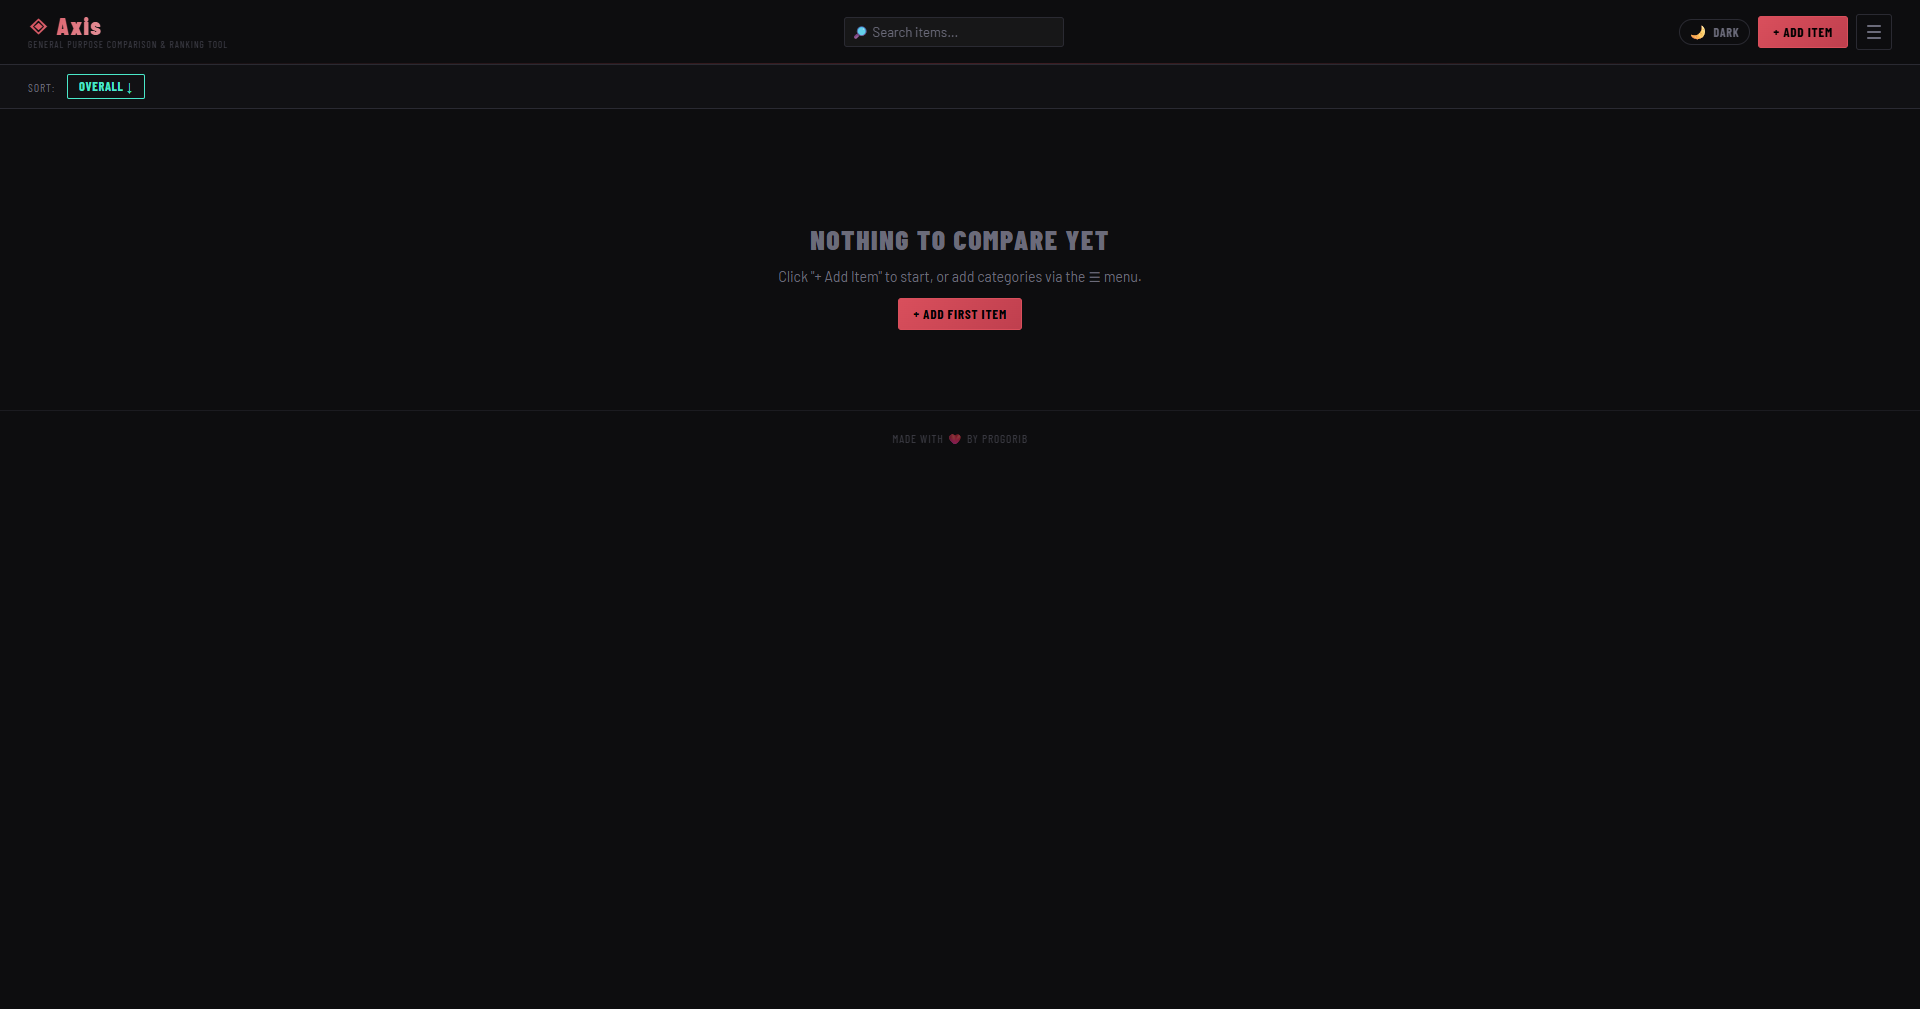
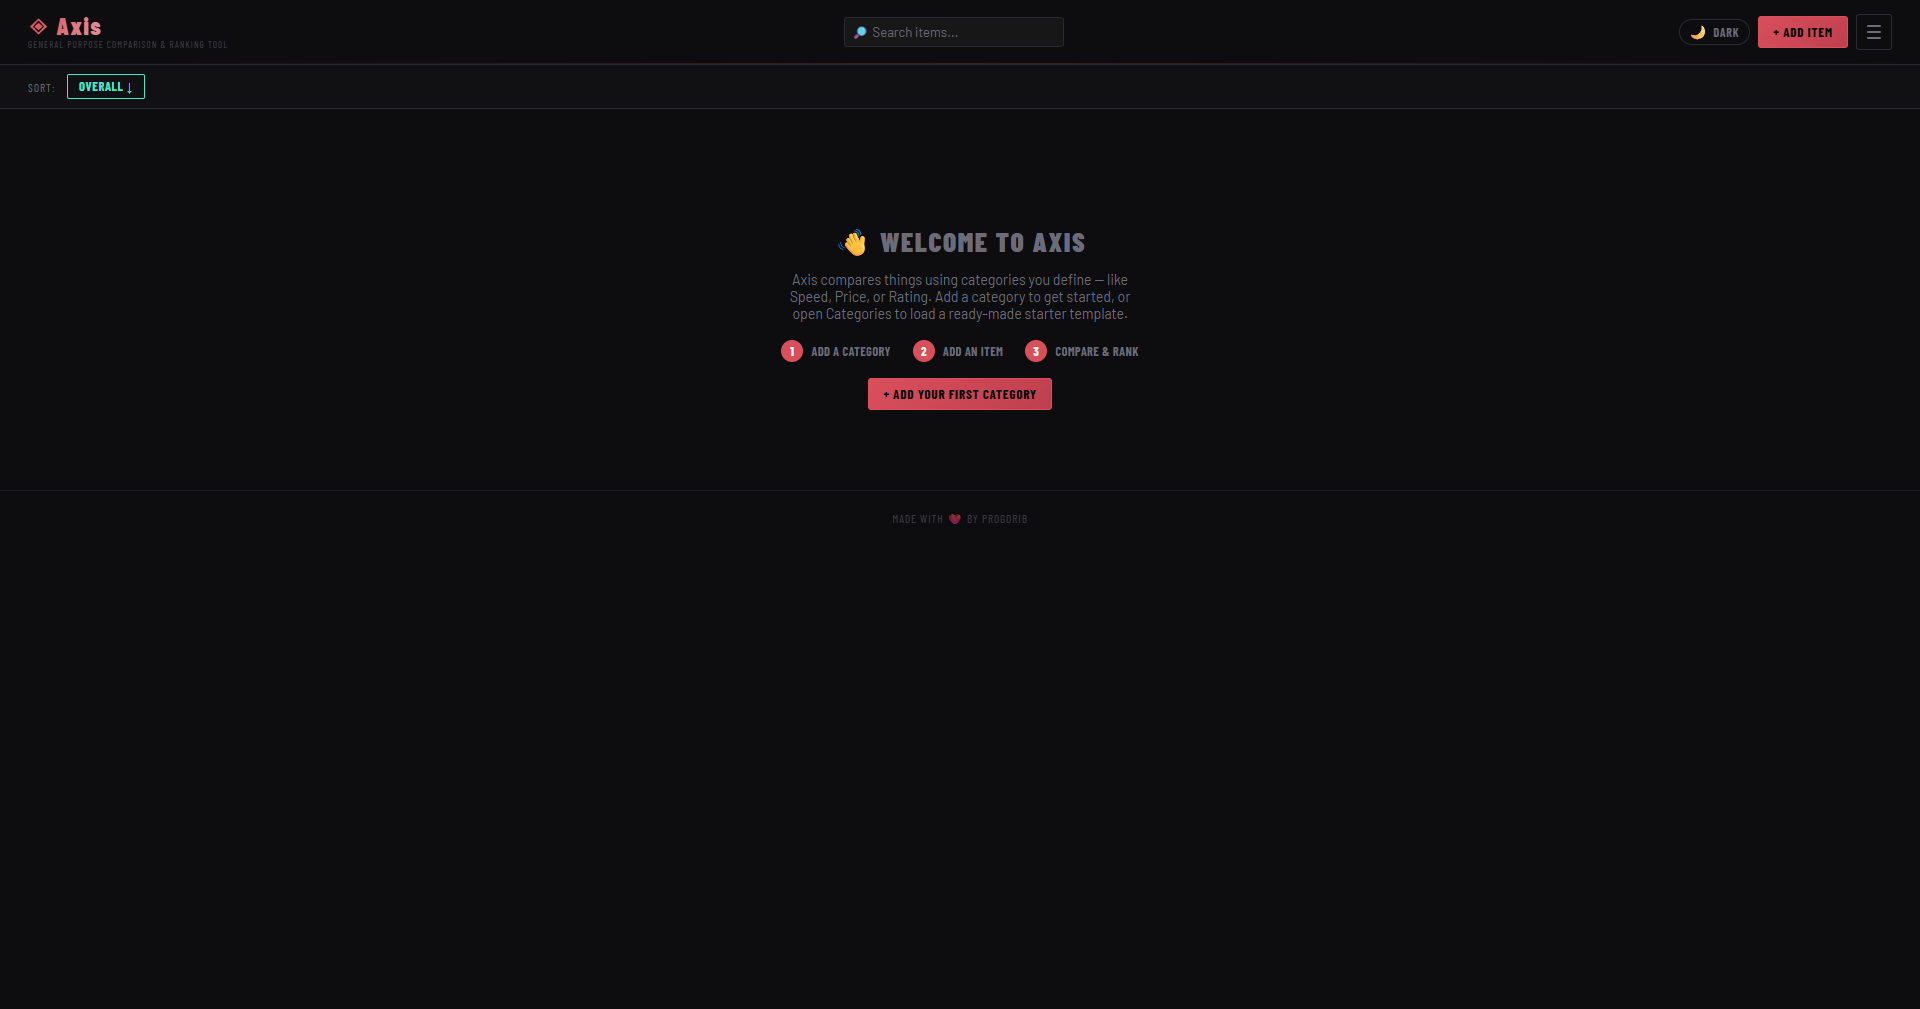
Axis v1.5.0 - Sharing, Import & Onboarding Update

Changed region(s): [[0.4062, 0.2151, 0.5938, 0.4609], [0.4688, 0.4916, 0.5, 0.5223]]

diff --git a/src/app.js b/src/app.js
@@ -2204,6 +2204,8 @@
         localStorage.setItem('axis_seeded_starter', '1');
         if (Object.keys(templates).length) return; // don't clobber existing templates
         templates['Video Games'] = ['Graphics', 'Story', 'Gameplay', 'Replayability'];
+        templates['Movies']      = ['Acting', 'Plot', 'Visuals', 'Rewatchability'];
+        templates['Restaurants'] = ['Taste', 'Price', 'Service', 'Ambiance'];
         saveTemplatesStore();
       } catch (e) { /* silent — onboarding nicety, not critical */ }
     }
@@ -2764,7 +2766,7 @@
         box(0, 0, W, H, C_BG);
 
         // ── Header ───────────────────────────────────────────────────────
-        txt('🏆 AXIS RANKING', PAD, 34, '800 22px system-ui,-apple-system,Arial,sans-serif', C_WHITE, 'left');
+        txt('🏆 Axis Ranking', PAD, 34, '800 22px system-ui,-apple-system,Arial,sans-serif', C_WHITE, 'left');
         const dateStr = new Date().toLocaleDateString(undefined, { year: 'numeric', month: 'short', day: 'numeric' });
         txt(`${sorted.length} item${sorted.length === 1 ? '' : 's'} · ${dateStr}`, W - PAD, 34,
             '600 12px system-ui,Arial,sans-serif', C_LABEL, 'right');

diff --git a/src/index.html b/src/index.html
@@ -343,7 +343,7 @@
           <div id="settings-about">
             <div id="settings-about-version">Axis v1.4.0</div>
             <div id="settings-about-desc">A general purpose comparison &amp; ranking tool.</div>
-            <div id="settings-about-credit">Made with ❤ by PR0Gorib</div>
+            <div id="settings-about-credit">Made by PR0Gorib</div>
             <div id="settings-about-links">
               <a href="https://github.com/PR0Gorib/Axis/" target="_blank" rel="noopener noreferrer">⭐ View on GitHub</a>
               <a href="https://github.com/PR0Gorib/Axis/releases" target="_blank" rel="noopener noreferrer">⬇ Releases</a>
